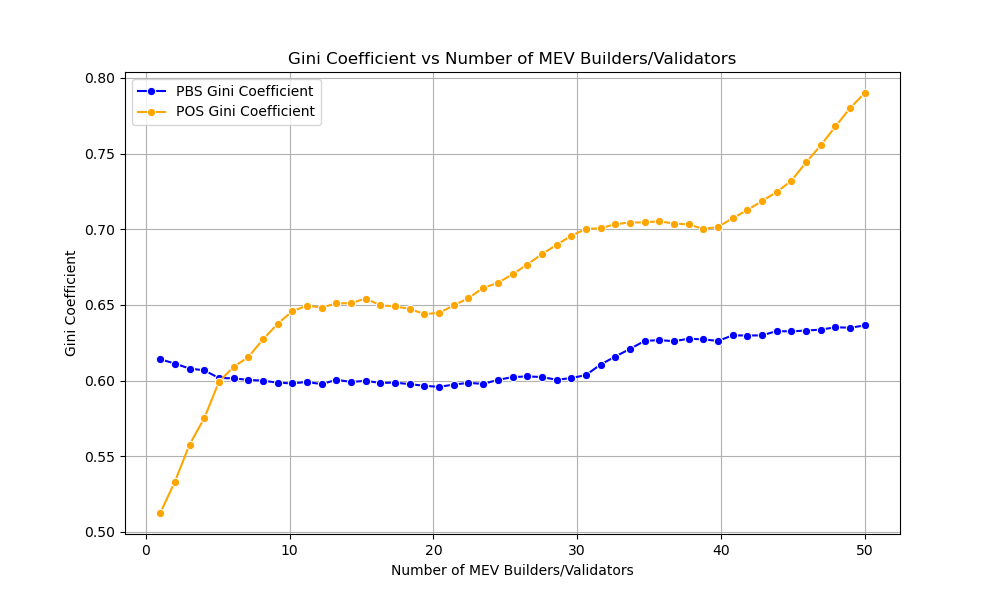
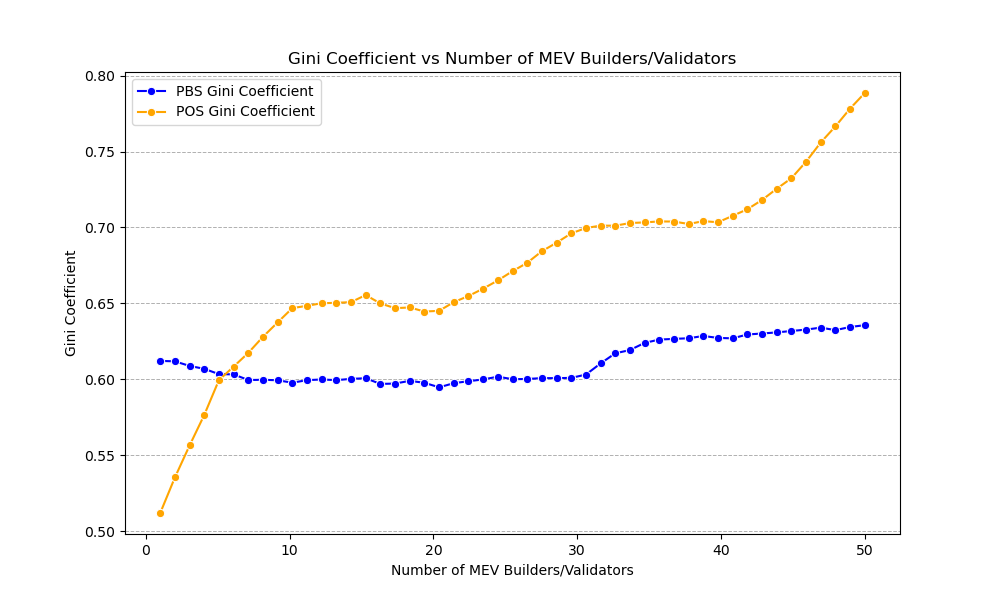
plot

diff --git a/plots/new/gini-reward.py b/plots/new/gini-reward.py
@@ -65,7 +65,7 @@ smooth_gini_pbs = savgol_filter(gini_pbs, window_length, polyorder)
 smooth_gini_pos = savgol_filter(gini_pos, window_length, polyorder)
 
 # Interpolate and add very small noise
-def interpolate_and_add_noise(x, y, num_points=50, noise_scale=0.001):
+def interpolate_and_add_noise(x, y, num_points=49, noise_scale=0.001):
     interp_func = interp1d(x, y, kind='linear')
     x_new = np.linspace(min(x), max(x), num_points)
     y_new = interp_func(x_new)
@@ -85,5 +85,10 @@ ax.set_xlabel('Number of MEV Builders/Validators')
 ax.set_ylabel('Gini Coefficient')
 ax.legend()
 ax.grid(True)
+ax.xaxis.grid(True)
+ax.yaxis.grid(True)
+ax.yaxis.grid(True, which='both', linestyle='--', linewidth=0.7)
+ax.xaxis.grid(False)  # Turn off vertical grid lines
+
 plt.savefig('figures/new/smooth_gini_coefficient.png')
 plt.close()
